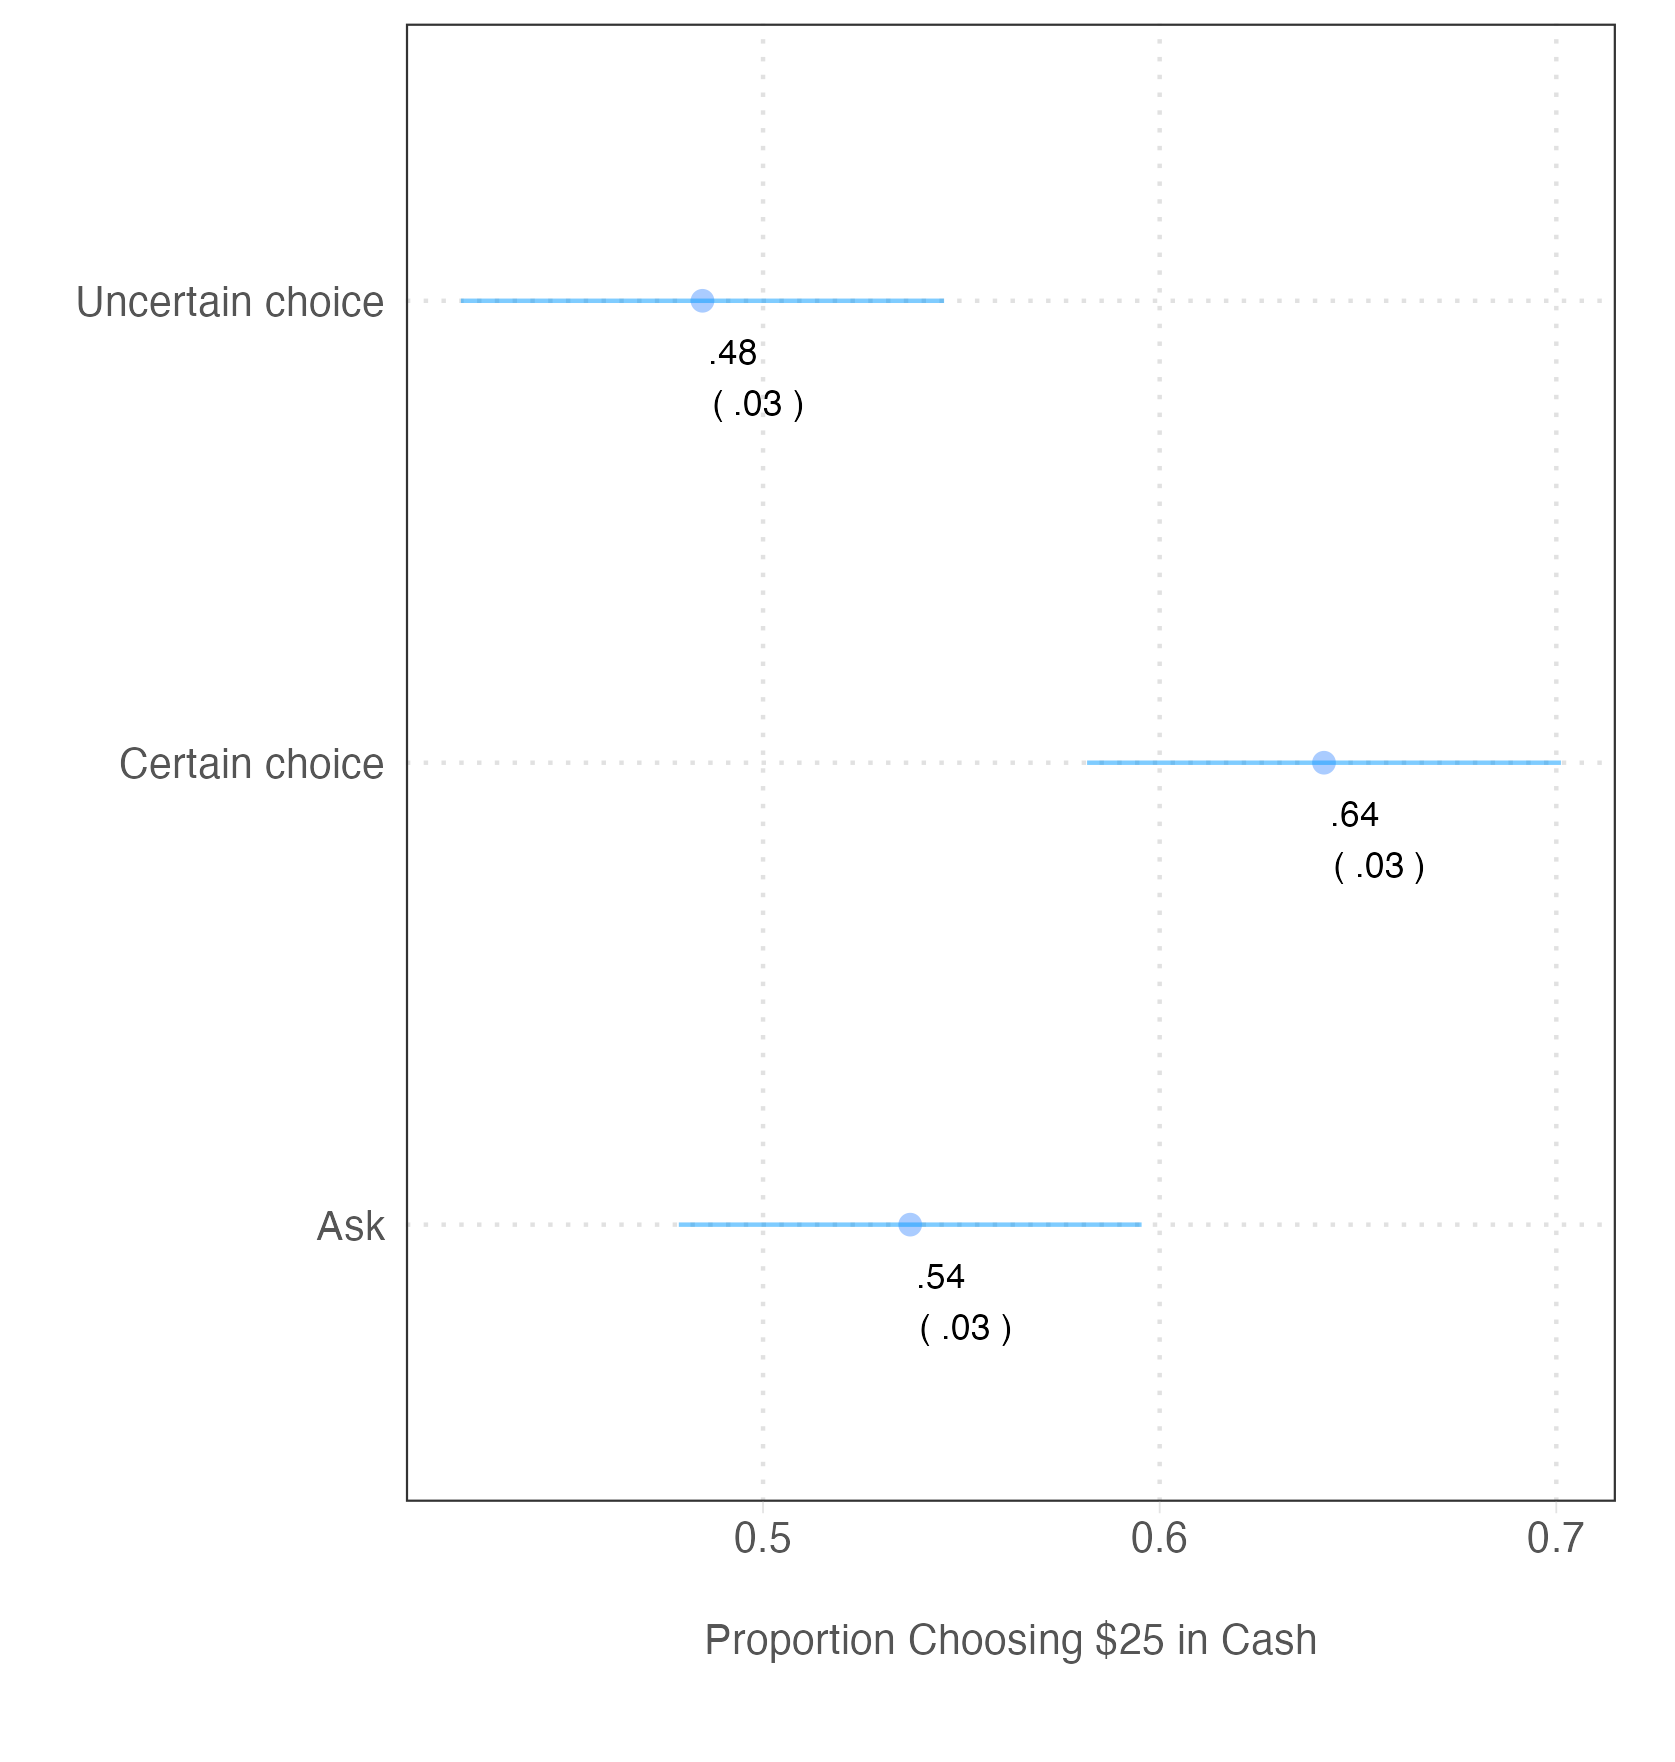
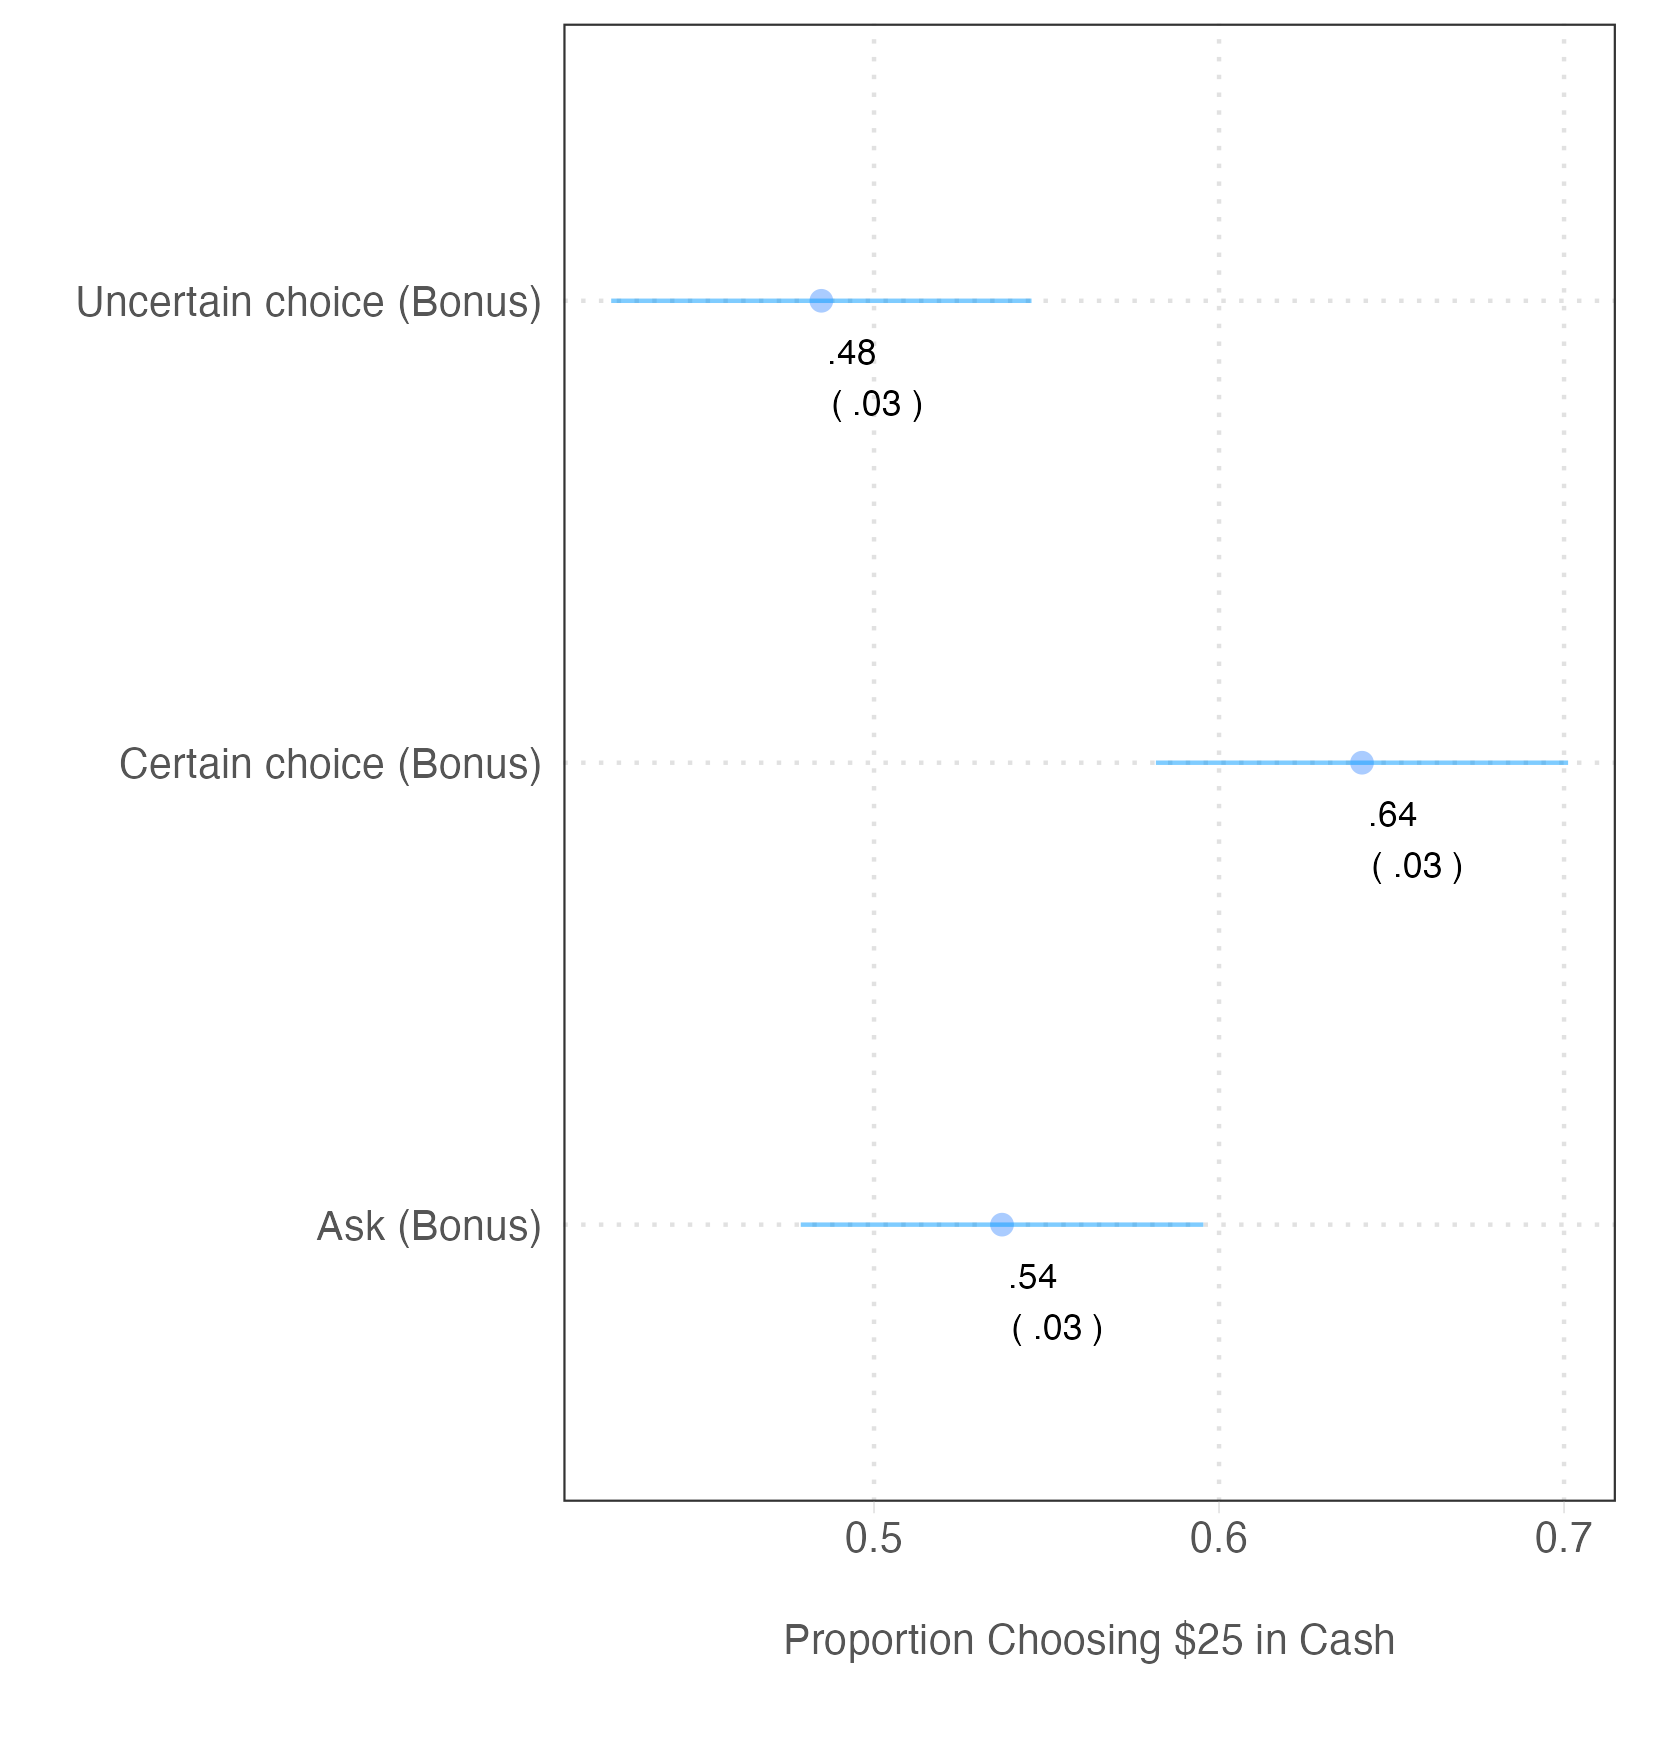
amend the code for long data

diff --git a/tabs/prolific_exp1.tex b/tabs/prolific_exp1.tex
@@ -1,5 +1,5 @@
 % latex table generated in R 4.2.2 by xtable 1.8-4 package
-% Tue Jun  6 13:26:47 2023
+% Tue Jun  6 13:47:52 2023
 \begin{table}[ht]
 \centering
 \caption{Means and SEs from Experiment 1} 
@@ -8,9 +8,9 @@
   \hline
 bonus & mean & se & lower & upper \\ 
   \hline
-Ask & 0.54 & 0.03 & 0.48 & 0.60 \\ 
-  Certain choice & 0.64 & 0.03 & 0.58 & 0.70 \\ 
-  Uncertain choice & 0.48 & 0.03 & 0.42 & 0.55 \\ 
+Ask (Bonus) & 0.54 & 0.03 & 0.48 & 0.60 \\ 
+  Certain choice (Bonus) & 0.64 & 0.03 & 0.58 & 0.70 \\ 
+  Uncertain choice (Bonus) & 0.48 & 0.03 & 0.42 & 0.55 \\ 
    \hline
 \end{tabular}
 \end{table}
